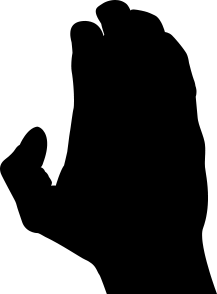
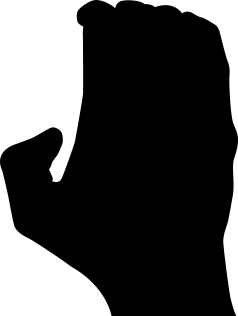
new open_hand_grip, previous one was bad. added dyRelativeHangAnchorPoint

diff --git a/app/lib/data/grips.dart b/app/lib/data/grips.dart
@@ -9,6 +9,7 @@ class Grips {
     name: 'monoPinkyL',
     fingers: const Fingers(pinky: true, count: 1),
     assetSrc: 'assets/images/grips/mono_pinky_L.png',
+    dyRelativeHangAnchorPoint: 21 / 330,
   );
 
   static const Grip monoPinkyR = const Grip(
@@ -16,151 +17,161 @@ class Grips {
     name: 'monoPinkyL',
     fingers: const Fingers(pinky: true, count: 1),
     assetSrc: 'assets/images/grips/mono_pinky_R.png',
+    dyRelativeHangAnchorPoint: 21 / 330,
   );
 
   static const Grip monoRingL = const Grip(
-    description: 'mono ring finger',
-    name: 'monoRingL',
-    fingers: const Fingers(ring: true, count: 1),
-    assetSrc: 'assets/images/grips/mono_ring_L.png',
-  );
+      description: 'mono ring finger',
+      name: 'monoRingL',
+      fingers: const Fingers(ring: true, count: 1),
+      assetSrc: 'assets/images/grips/mono_ring_L.png',
+      dyRelativeHangAnchorPoint: 22 / 336);
   static const Grip monoRingR = const Grip(
-    description: 'mono ring finger',
-    name: 'monoRingL',
-    fingers: const Fingers(ring: true, count: 1),
-    assetSrc: 'assets/images/grips/mono_ring_R.png',
-  );
+      description: 'mono ring finger',
+      name: 'monoRingL',
+      fingers: const Fingers(ring: true, count: 1),
+      assetSrc: 'assets/images/grips/mono_ring_R.png',
+      dyRelativeHangAnchorPoint: 22 / 336);
 
   static const Grip monoMiddleL = const Grip(
-    description: 'mono middle finger',
-    name: 'monoMiddleL',
-    fingers: const Fingers(middle: true, count: 1),
-    assetSrc: 'assets/images/grips/mono_middle_L.png',
-  );
+      description: 'mono middle finger',
+      name: 'monoMiddleL',
+      fingers: const Fingers(middle: true, count: 1),
+      assetSrc: 'assets/images/grips/mono_middle_L.png',
+      dyRelativeHangAnchorPoint: 25 / 369);
   static const Grip monoMiddleR = const Grip(
       description: 'mono middle finger',
       name: 'monoMiddleL',
       fingers: const Fingers(middle: true, count: 1),
-      assetSrc: 'assets/images/grips/mono_middle_R.png');
+      assetSrc: 'assets/images/grips/mono_middle_R.png',
+      dyRelativeHangAnchorPoint: 25 / 369);
 
   static const Grip monoIndexL = const Grip(
-    description: 'mono index finger',
-    name: 'monoIndexL',
-    fingers: const Fingers(index: true, count: 1),
-    assetSrc: 'assets/images/grips/mono_index_L.png',
-  );
+      description: 'mono index finger',
+      name: 'monoIndexL',
+      fingers: const Fingers(index: true, count: 1),
+      assetSrc: 'assets/images/grips/mono_index_L.png',
+      dyRelativeHangAnchorPoint: 23 / 317);
 
   static const Grip monoIndexR = const Grip(
       description: 'mono index finger',
       name: 'monoIndexL',
       fingers: const Fingers(index: true, count: 1),
-      assetSrc: 'assets/images/grips/mono_index_R.png');
+      assetSrc: 'assets/images/grips/mono_index_R.png',
+      dyRelativeHangAnchorPoint: 23 / 317);
 
   static const Grip frontTwoL = const Grip(
-    description: 'front two',
-    name: 'frontTwoL',
-    fingers: const Fingers(index: true, middle: true, count: 2),
-    assetSrc: 'assets/images/grips/front_two_L.png',
-  );
+      description: 'front two',
+      name: 'frontTwoL',
+      fingers: const Fingers(index: true, middle: true, count: 2),
+      assetSrc: 'assets/images/grips/front_two_L.png',
+      dyRelativeHangAnchorPoint: 20 / 300);
 
   static const Grip frontTwoR = const Grip(
       description: 'front two',
       name: 'frontTwoL',
       fingers: const Fingers(index: true, middle: true, count: 2),
-      assetSrc: 'assets/images/grips/front_two_R.png');
+      assetSrc: 'assets/images/grips/front_two_R.png',
+      dyRelativeHangAnchorPoint: 20 / 300);
 
   static const Grip middleTwoL = const Grip(
-    description: 'middle two',
-    name: 'middleTwoL',
-    fingers: const Fingers(middle: true, ring: true, count: 2),
-    assetSrc: 'assets/images/grips/middle_two_L.png',
-  );
+      description: 'middle two',
+      name: 'middleTwoL',
+      fingers: const Fingers(middle: true, ring: true, count: 2),
+      assetSrc: 'assets/images/grips/middle_two_L.png',
+      dyRelativeHangAnchorPoint: 45 / 332);
   static const Grip middleTwoR = const Grip(
       description: 'middle two',
       name: 'middleTwoL',
       fingers: const Fingers(middle: true, ring: true, count: 2),
-      assetSrc: 'assets/images/grips/middle_two_R.png');
+      assetSrc: 'assets/images/grips/middle_two_R.png',
+      dyRelativeHangAnchorPoint: 45 / 332);
 
   static const Grip backTwoL = const Grip(
-    description: 'back two',
-    name: 'backTwoL',
-    fingers: const Fingers(ring: true, pinky: true, count: 2),
-    assetSrc: 'assets/images/grips/back_two_L.png',
-  );
+      description: 'back two',
+      name: 'backTwoL',
+      fingers: const Fingers(ring: true, pinky: true, count: 2),
+      assetSrc: 'assets/images/grips/back_two_L.png',
+      dyRelativeHangAnchorPoint: 28 / 332);
+
   static const Grip backTwoR = const Grip(
       description: 'back two',
       name: 'backTwoL',
       fingers: const Fingers(ring: true, pinky: true, count: 2),
-      assetSrc: 'assets/images/grips/back_two_R.png');
+      assetSrc: 'assets/images/grips/back_two_R.png',
+      dyRelativeHangAnchorPoint: 28 / 332);
 
   static const Grip frontThreeL = const Grip(
-    description: 'front three',
-    name: 'frontThreeL',
-    fingers: const Fingers(index: true, middle: true, ring: true, count: 3),
-    assetSrc: 'assets/images/grips/front_three_L.png',
-  );
+      description: 'front three',
+      name: 'frontThreeL',
+      fingers: const Fingers(index: true, middle: true, ring: true, count: 3),
+      assetSrc: 'assets/images/grips/front_three_L.png',
+      dyRelativeHangAnchorPoint: 30 / 297);
   static const Grip frontThreeR = const Grip(
       description: 'front three',
       name: 'frontThreeL',
       fingers: const Fingers(index: true, middle: true, ring: true, count: 3),
-      assetSrc: 'assets/images/grips/front_three_R.png');
+      assetSrc: 'assets/images/grips/front_three_R.png',
+      dyRelativeHangAnchorPoint: 30 / 297);
 
   static const Grip backThreeL = const Grip(
-    description: 'back three',
-    name: 'backThreeL',
-    fingers: const Fingers(middle: true, ring: true, pinky: true, count: 3),
-    assetSrc: 'assets/images/grips/back_three_L.png',
-  );
+      description: 'back three',
+      name: 'backThreeL',
+      fingers: const Fingers(middle: true, ring: true, pinky: true, count: 3),
+      assetSrc: 'assets/images/grips/back_three_L.png',
+      dyRelativeHangAnchorPoint: 30 / 292);
   static const Grip backThreeR = const Grip(
       description: 'back three',
       name: 'backThreeL',
       fingers: const Fingers(middle: true, ring: true, pinky: true, count: 3),
-      assetSrc: 'assets/images/grips/back_three_R.png');
+      assetSrc: 'assets/images/grips/back_three_R.png',
+      dyRelativeHangAnchorPoint: 30 / 292);
 
   static const Grip openHandL = const Grip(
-    description: 'open hand',
-    name: 'openHandL',
-    fingers: const Fingers(
-        index: true, middle: true, ring: true, pinky: true, count: 4),
-    assetSrc: 'assets/images/grips/open_hand_L.png',
-  );
+      description: 'open hand',
+      name: 'openHandL',
+      fingers: const Fingers(
+          index: true, middle: true, ring: true, pinky: true, count: 4),
+      assetSrc: 'assets/images/grips/open_hand_L.png',
+      dyRelativeHangAnchorPoint: 26 / 316);
   static const Grip openHandR = const Grip(
-    description: 'open hand',
-    name: 'openHandL',
-    fingers: const Fingers(
-        index: true, middle: true, ring: true, pinky: true, count: 4),
-    assetSrc: 'assets/images/grips/open_hand_R.png',
-  );
+      description: 'open hand',
+      name: 'openHandL',
+      fingers: const Fingers(
+          index: true, middle: true, ring: true, pinky: true, count: 4),
+      assetSrc: 'assets/images/grips/open_hand_R.png',
+      dyRelativeHangAnchorPoint: 26 / 316);
 
   static const Grip halfCrimpL = const Grip(
-    description: 'half crimp',
-    name: 'halfCrimpL',
-    fingers: const Fingers(
-        index: true, middle: true, ring: true, pinky: true, count: 4),
-    crimped: true,
-    assetSrc: 'assets/images/grips/half_crimp_L.png',
-  );
+      description: 'half crimp',
+      name: 'halfCrimpL',
+      fingers: const Fingers(
+          index: true, middle: true, ring: true, pinky: true, count: 4),
+      crimped: true,
+      assetSrc: 'assets/images/grips/half_crimp_L.png',
+      dyRelativeHangAnchorPoint: 58 / 318);
   static const Grip halfCrimpR = const Grip(
       description: 'half crimp',
       name: 'halfCrimpL',
       fingers: const Fingers(
           index: true, middle: true, ring: true, pinky: true, count: 4),
       crimped: true,
-      assetSrc: 'assets/images/grips/half_crimp_R.png');
+      assetSrc: 'assets/images/grips/half_crimp_R.png',
+      dyRelativeHangAnchorPoint: 58 / 318);
 
   static const Grip fullCrimpL = const Grip(
-    description: 'full crimp',
-    name: 'fullCrimpL',
-    fingers: const Fingers(
-        index: true,
-        middle: true,
-        ring: true,
-        pinky: true,
-        thumb: true,
-        count: 5),
-    crimped: true,
-    assetSrc: 'assets/images/grips/full_crimp_L.png',
-  );
+      description: 'full crimp',
+      name: 'fullCrimpL',
+      fingers: const Fingers(
+          index: true,
+          middle: true,
+          ring: true,
+          pinky: true,
+          thumb: true,
+          count: 5),
+      crimped: true,
+      assetSrc: 'assets/images/grips/full_crimp_L.png',
+      dyRelativeHangAnchorPoint: 65 / 282);
   static const Grip fullCrimpR = const Grip(
       description: 'full crimp',
       name: 'fullCrimpL',
@@ -172,7 +183,8 @@ class Grips {
           thumb: true,
           count: 5),
       crimped: true,
-      assetSrc: 'assets/images/grips/full_crimp_R.png');
+      assetSrc: 'assets/images/grips/full_crimp_R.png',
+      dyRelativeHangAnchorPoint: 65 / 282);
 
   static const List<Grip> basicL = [
     Grips.openHandL,

diff --git a/app/lib/models/grip.dart b/app/lib/models/grip.dart
@@ -8,6 +8,7 @@ class Grip {
       this.crimped = false,
       @required this.assetSrc,
       @required this.description,
+      @required this.dyRelativeHangAnchorPoint,
       this.name});
 
   final Fingers fingers;
@@ -15,6 +16,7 @@ class Grip {
   final String assetSrc;
   final String name;
   final String description;
+  final double dyRelativeHangAnchorPoint;
 
   @override
   bool operator ==(Object other) =>
